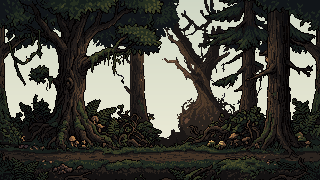
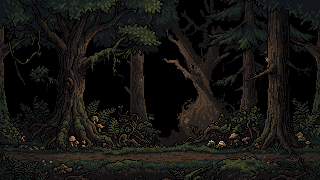
Nattversioner av skogsbakgrunderna
Claude-Session: https://claude.ai/code/session_018ajE8D2FggpF2yZQRYB5KY

diff --git a/sw.js b/sw.js
@@ -1,7 +1,7 @@
 // Fantasyvärlden – service worker.
 // Egna filer: nätet först (så uppdateringar syns direkt), cachen som reserv när man är offline.
 // GitHub-API:t (sparfilen) cachas aldrig.
-const CACHE = "fantasyvarlden-v28";
+const CACHE = "fantasyvarlden-v29";
 const SHELL = ["./","./index.html","./spel.js","./regler.js","./varld.js","./hjaltar.js","./figurer.js","./fiendebilder.js","./bakgrund.js","./grafik.js","./manifest.json","./icons/icon-180.png","./icons/icon-192.png","./icons/icon-512.png"];
 self.addEventListener("install", e => { e.waitUntil(caches.open(CACHE).then(c => c.addAll(SHELL)).then(() => self.skipWaiting())); });
 self.addEventListener("activate", e => { e.waitUntil(caches.keys().then(k => Promise.all(k.filter(x => x !== CACHE).map(x => caches.delete(x)))).then(() => self.clients.claim())); });

diff --git a/bakgrund.js b/bakgrund.js
@@ -336,7 +336,7 @@ RITA.trask = (ctx, rnd) => {
 // Rita med cache: varje (miljö, frö) ritas en gång och återanvänds sedan
 const CACHE = new Map();
 // Egna målade bakgrunder (320×180, dubbel upplösning) i mappen bakgrunder/. Saknas en miljö här ritas den med kod.
-const EGNA = { grotta:["grotta1","grotta2"], skog:["skog1","skog2"] };
+const EGNA = { grotta:["grotta1","grotta2"], skog:["skog1","skog2","skog1natt","skog2natt"] };
 const EBILDER = {};
 const egenBild = namn => { if(!EBILDER[namn]){ const i=new Image(); i.src="bakgrunder/"+namn+".png"; EBILDER[namn]=i; } return EBILDER[namn]; };
 window.BAKGRUND = {

diff --git a/README.md b/README.md
@@ -13,7 +13,7 @@ Ett privat hobbyprojekt: ett äventyrsspel i podden Rollspelsklubbens värld, me
 | `varld.js` | **Datafil** – uppdrag, monster, rum och möten |
 | `grafik.js` | Pixelgrafiken (scenen och porträtten) |
 | `bakgrund.js` | Bakgrunder till TV:n för alla åtta miljöer – egna målade bilder där de finns, annars ritade med kod |
-| `bakgrunder/` | Målade bakgrunder, 320×180 pixlar (t.ex. `grotta1.png`, `skog2.png`). Listas överst i `bakgrund.js` (EGNA). |
+| `bakgrunder/` | Målade bakgrunder, 320×180 pixlar (t.ex. `grotta1.png`, `skog2.png`, `skog2natt.png`). Listas överst i `bakgrund.js` (EGNA). |
 | `figurer/`, `figurer.js` | Hjältarnas pixelfigurer (8×8 varianter per bild) och vilka rutor som används |
 | `fiender/`, `fiendebilder.js` | Fiendernas pixelfigurer (8×8 varianter per bild) och vilka rutor som används |
 | `npc/` | NPC-ark: `stad.png` (stadsbor), `by.png` (bybor), `djur.png` (husdjur) – 64 figurer var – `kopman.png` (köpmän), `mobler.png` (värdshusmöbler), `saker_grotta.png` och `saker_by.png` (föremål och ikoner), `storn.png` (stör-örnen) – 64 figurer var – och `jens_vagn.png` (Bakhuvudet Jens vagn, sex varianter) |
